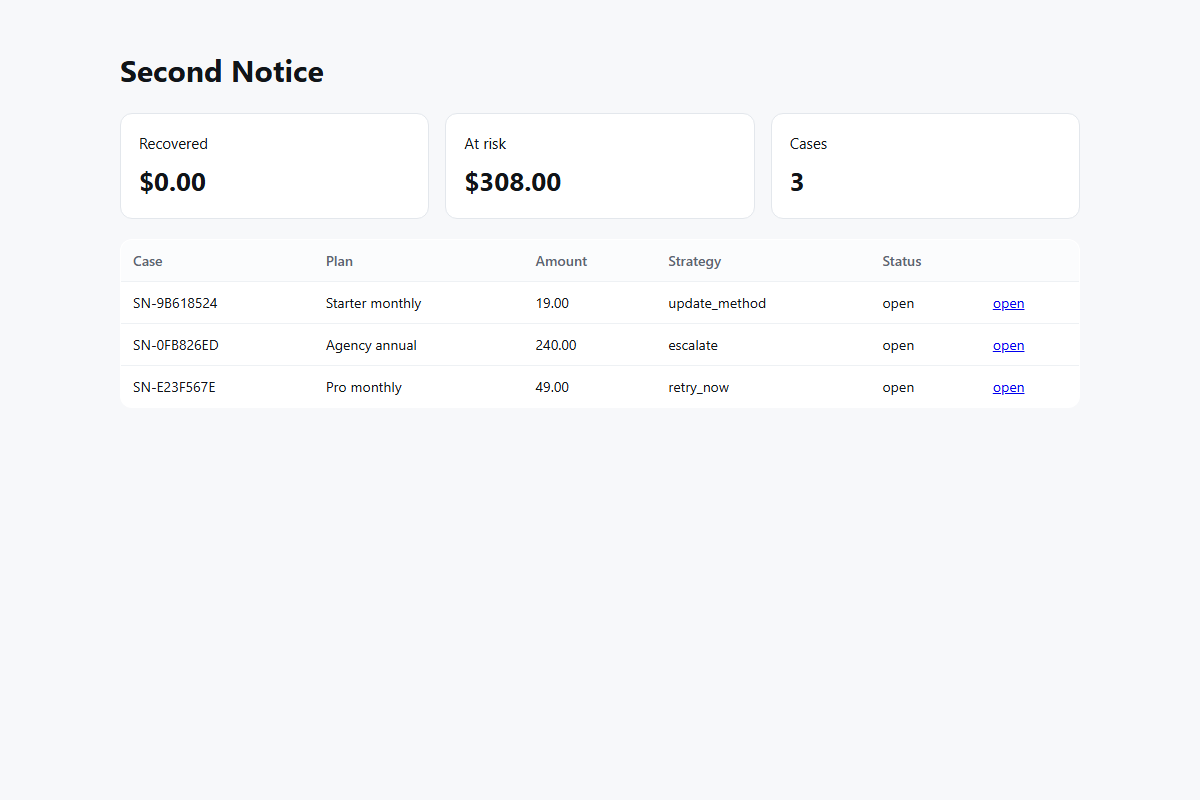
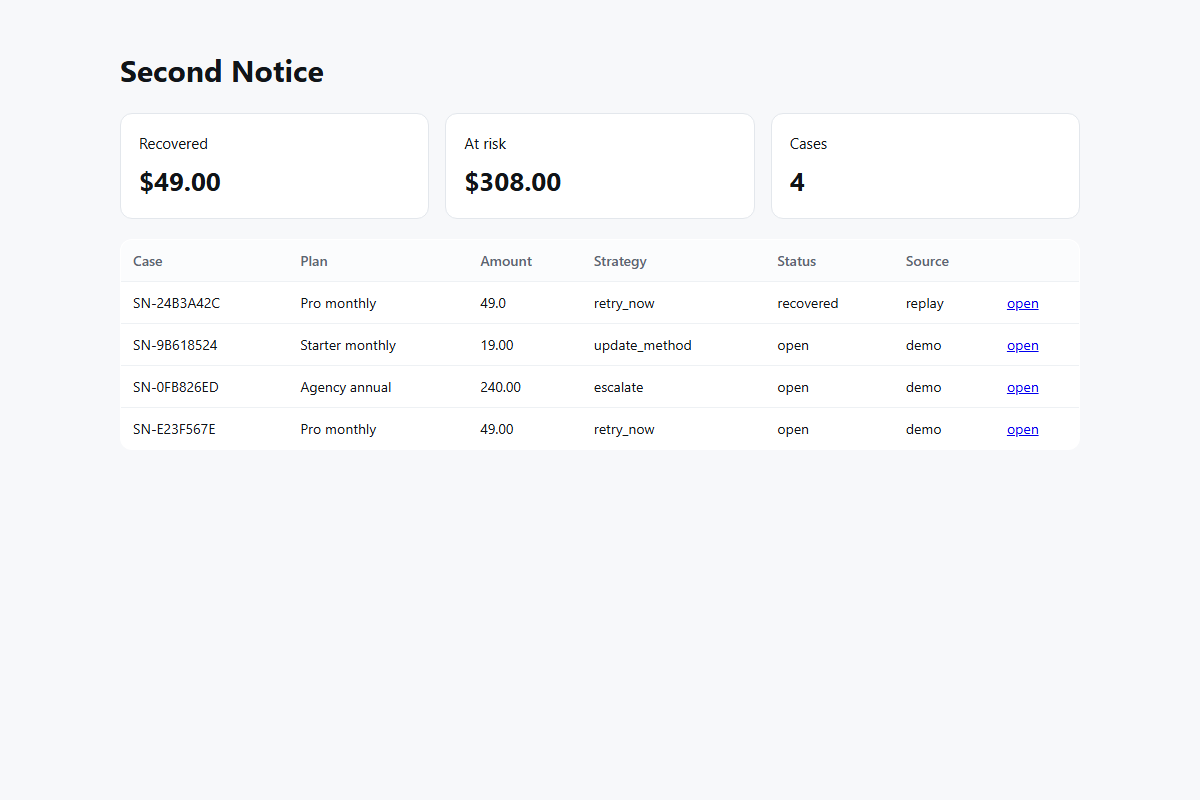
docs: production dashboard screenshot

diff --git a/app/main.py b/app/main.py
@@ -63,7 +63,8 @@ def _new_case(event: dict) -> dict:
     if str(subscription).startswith("P-"):
         subscription = "SUB-" + str(event.get("id", ""))[-8:]
     if str(plan).startswith("P-"):
-        plan = "unknown plan"
+        plan_info = paypal_api.get_plan(str(plan))
+        plan = plan_info.get("name") or "unknown plan"
     email = resource.get("payer", {}).get("email_address") or resource.get("subscriber", {}).get("email_address")
     reason_code = resource.get("payment_failure_reason") or resource.get("reason_code") or "UNKNOWN"
 
